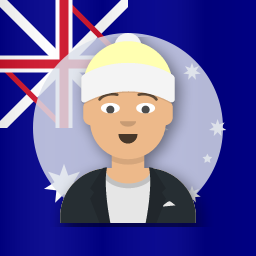
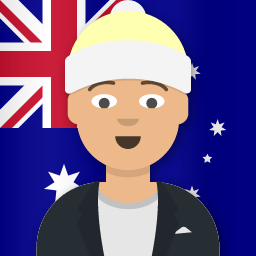
fix: correct Union Jack counterchanged diagonal geometry
- Use proper counterchanged parallelogram polygons for St Patrick's Saltire
- Red strips offset to correct side per Flag Institute specification
- Stroke widths based on canton height proportions (not arbitrary percentages)
- Official Pantone 186 red (#C8102E)

diff --git a/scripts/generate-avatars.ts b/scripts/generate-avatars.ts
@@ -29,10 +29,10 @@ const AGENTS: Record<string, string> = {
 };
 
 const SIZE = 256;
-const AVATAR_SIZE = 190;
-const SHADOW_OFFSET = 4;
-const SHADOW_BLUR = 8;
-const SHADOW_OPACITY = 0.45;
+const AVATAR_SIZE = 256;
+const SHADOW_OFFSET = 3;
+const SHADOW_BLUR = 6;
+const SHADOW_OPACITY = 0.4;
 const OUTPUT_DIR = path.resolve(__dirname, '../assets/avatars');
 
 // ── Geometry helper: n-pointed star polygon ─────────────────────────────────
@@ -56,11 +56,18 @@ function australianFlagSVG(s = 256): string {
   const cx = cW / 2;  // canton center x
   const cy = cH / 2;  // canton center y
 
-  // Stroke widths scaled to flag size
-  const diagWhite = Math.round(s * 0.04);
-  const diagRed = Math.round(s * 0.02);
-  const crossWhite = Math.round(s * 0.065);
-  const crossRed = Math.round(s * 0.035);
+  // Stroke widths based on canton height (per Union Jack spec: Flag Institute / jdawiseman.com)
+  // Total diagonal band = cH/5, subdivided 3:2:1 → wider white : red : narrower white
+  // St George's cross = cH/5 red, fimbriated cH/15 white on each side
+  const diagWhite = Math.round(cH / 5);
+  const crossTotal = Math.round(cH / 3);   // white fimbriation + red cross total
+  const crossRed = Math.round(cH / 5);
+
+  // Counterchanged St Patrick's saltire: red strip (cH/15 wide perpendicular)
+  // starts at diagonal centre and extends outward. Axis-aligned offset = cH/(15√2).
+  // Hoist (left): red below diagonal → wider white on top.
+  // Fly (right): red above diagonal → wider white on bottom.
+  const d = Math.round(cH / (15 * Math.SQRT2));
 
   return `<svg xmlns="http://www.w3.org/2000/svg" viewBox="0 0 ${s} ${s}">
   <!-- Blue ensign background -->
@@ -71,17 +78,21 @@ function australianFlagSVG(s = 256): string {
     <!-- White diagonal cross (St Andrew's Saltire) -->
     <line x1="0" y1="0" x2="${cW}" y2="${cH}" stroke="white" stroke-width="${diagWhite}"/>
     <line x1="${cW}" y1="0" x2="0" y2="${cH}" stroke="white" stroke-width="${diagWhite}"/>
-    <!-- Red diagonal stripes (St Patrick's Saltire — counter-changed) -->
-    <line x1="${cW * 0.5}" y1="0" x2="${cW}" y2="${cH * 0.5}" stroke="#CF142B" stroke-width="${diagRed}"/>
-    <line x1="0" y1="${cH * 0.5}" x2="${cW * 0.5}" y2="${cH}" stroke="#CF142B" stroke-width="${diagRed}"/>
-    <line x1="${cW * 0.5}" y1="${cH}" x2="0" y2="${cH * 0.5}" stroke="#CF142B" stroke-width="${diagRed}"/>
-    <line x1="${cW}" y1="${cH * 0.5}" x2="${cW * 0.5}" y2="0" stroke="#CF142B" stroke-width="${diagRed}"/>
-    <!-- White cross border (St George's) -->
-    <line x1="${cx}" y1="0" x2="${cx}" y2="${cH}" stroke="white" stroke-width="${crossWhite}"/>
-    <line x1="0" y1="${cy}" x2="${cW}" y2="${cy}" stroke="white" stroke-width="${crossWhite}"/>
+    <!-- Red diagonal stripes (St Patrick's Saltire — counterchanged pinwheel) -->
+    <!-- TL arm: red below diagonal (wide white on top, hoist side) -->
+    <polygon points="0,0 ${cx},${cy} ${cx - d},${cy + d} 0,${2 * d}" fill="#C8102E"/>
+    <!-- BR arm: red above diagonal (continues TL pattern) -->
+    <polygon points="${cW},${cH} ${cx},${cy} ${cx + d},${cy - d} ${cW},${cH - 2 * d}" fill="#C8102E"/>
+    <!-- TR arm: red above-left (narrow white on top, fly side) -->
+    <polygon points="${cW},0 ${cx},${cy} ${cx - d},${cy - d} ${cW - 2 * d},0" fill="#C8102E"/>
+    <!-- BL arm: red below-right (continues TR pattern) -->
+    <polygon points="0,${cH} ${cx},${cy} ${cx + d},${cy + d} ${2 * d},${cH}" fill="#C8102E"/>
+    <!-- White cross border (St George's fimbriation) -->
+    <line x1="${cx}" y1="0" x2="${cx}" y2="${cH}" stroke="white" stroke-width="${crossTotal}"/>
+    <line x1="0" y1="${cy}" x2="${cW}" y2="${cy}" stroke="white" stroke-width="${crossTotal}"/>
     <!-- Red cross (St George's Cross) -->
-    <line x1="${cx}" y1="0" x2="${cx}" y2="${cH}" stroke="#CF142B" stroke-width="${crossRed}"/>
-    <line x1="0" y1="${cy}" x2="${cW}" y2="${cy}" stroke="#CF142B" stroke-width="${crossRed}"/>
+    <line x1="${cx}" y1="0" x2="${cx}" y2="${cH}" stroke="#C8102E" stroke-width="${crossRed}"/>
+    <line x1="0" y1="${cy}" x2="${cW}" y2="${cy}" stroke="#C8102E" stroke-width="${crossRed}"/>
   </g>
   <defs>
     <clipPath id="canton-clip"><rect width="${cW}" height="${cH}"/></clipPath>
@@ -155,30 +166,21 @@ async function createShadow(avatarBuf: Buffer): Promise<Buffer> {
     .toBuffer();
 }
 
-// ── Create a semi-transparent dark circle backing for the avatar ─────────────
-async function createBackingCircle(): Promise<Buffer> {
-  const r = Math.round(AVATAR_SIZE / 2);
-  const svg = `<svg xmlns="http://www.w3.org/2000/svg" width="${AVATAR_SIZE}" height="${AVATAR_SIZE}">
-    <circle cx="${r}" cy="${r}" r="${r}" fill="rgba(220,225,235,0.82)"/>
-  </svg>`;
-  return sharp(Buffer.from(svg)).png().toBuffer();
-}
-
-// ── Composite: flag background → backing circle → shadow → avatar ───────────
+// ── Composite: flag background → shadow → avatar (bottom-aligned) ───────────
 async function generateAvatar(agentId: string, seed: string, flagBg: Buffer): Promise<void> {
   console.log(`  Generating ${agentId} (seed: ${seed})...`);
 
   const avatarBuf = await fetchAvatar(seed);
   const shadowBuf = await createShadow(avatarBuf);
-  const backingBuf = await createBackingCircle();
 
-  const offset = Math.round((SIZE - AVATAR_SIZE) / 2);
+  // Bottom-align: avatar bottom edge = image bottom edge
+  const offsetX = Math.round((SIZE - AVATAR_SIZE) / 2);
+  const offsetY = SIZE - AVATAR_SIZE;
 
   const result = await sharp(flagBg)
     .composite([
-      { input: backingBuf, left: offset, top: offset },
-      { input: shadowBuf, left: offset + SHADOW_OFFSET, top: offset + SHADOW_OFFSET },
-      { input: avatarBuf, left: offset, top: offset },
+      { input: shadowBuf, left: offsetX + SHADOW_OFFSET, top: offsetY + SHADOW_OFFSET },
+      { input: avatarBuf, left: offsetX, top: offsetY },
     ])
     .png()
     .toBuffer();
